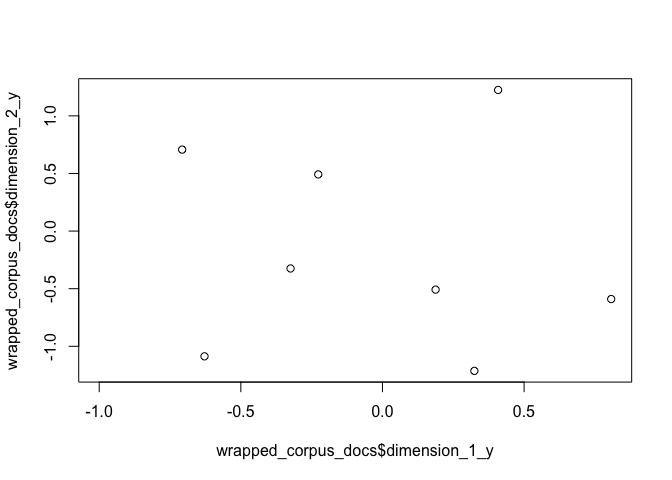
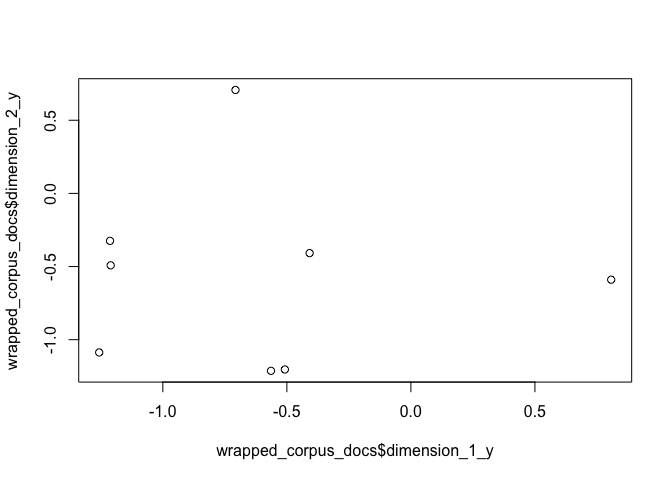
sklearn HDP & LDA added

diff --git a/README.md b/README.md
@@ -127,7 +127,7 @@ should manually delete it with `delete_mmcorpus`.
 
 ``` r
 (corpus_mm <- serialize_mmcorpus(corpus_bow, auto_delete = FALSE))
-#> ℹ Path: /var/folders/n9/ys9t1h091jq80g4hww24v8g0n7v578/T//RtmprgOYUV/file2bd36f4ffb8f.mm 
+#> ℹ Path: /var/folders/n9/ys9t1h091jq80g4hww24v8g0n7v578/T//RtmprgOYUV/file2bd37ec89b4f.mm 
 #>  ✔ Temp file
 #>  ✖ Delete after use
 ```
@@ -161,7 +161,7 @@ Note that we use the transformed corpus.
 lsi <- model_lsi(corpus_transformed, id2word = dictionary)
 #> ⚠ Low number of topics
 lsi$print_topics()
-#> [(0, '0.703*"trees" + 0.538*"graph" + 0.402*"minors" + 0.187*"survey" + 0.061*"system" + 0.060*"time" + 0.060*"response" + 0.058*"user" + 0.049*"computer" + 0.035*"interface"'), (1, '-0.460*"system" + -0.373*"user" + -0.332*"eps" + -0.328*"interface" + -0.320*"response" + -0.320*"time" + -0.293*"computer" + -0.280*"human" + -0.171*"survey" + 0.161*"trees"')]
+#> [(0, '0.703*"trees" + 0.538*"graph" + 0.402*"minors" + 0.187*"survey" + 0.061*"system" + 0.060*"response" + 0.060*"time" + 0.058*"user" + 0.049*"computer" + 0.035*"interface"'), (1, '0.460*"system" + 0.373*"user" + 0.332*"eps" + 0.328*"interface" + 0.320*"time" + 0.320*"response" + 0.293*"computer" + 0.280*"human" + 0.171*"survey" + -0.161*"trees"')]
 ```
 
 We can then wrap the model around the corpus to extract further
@@ -174,15 +174,15 @@ wrapped_corpus <- wrap(lsi, corpus_transformed)
 #> # A tibble: 9 x 4
 #>   dimension_1_x dimension_1_y dimension_2_x dimension_2_y
 #>           <dbl>         <dbl>         <dbl>         <dbl>
-#> 1             0        0.0660             1       -0.520 
-#> 2             0        0.197              1       -0.761 
-#> 3             0        0.0899             1       -0.724 
-#> 4             0        0.0759             1       -0.632 
-#> 5             0        0.102              1       -0.574 
-#> 6             0        0.703              1        0.161 
-#> 7             0        0.877              1        0.168 
-#> 8             0        0.910              1        0.141 
-#> 9             0        0.617              1       -0.0539
+#> 1             0        0.0660             1        0.520 
+#> 2             0        0.197              1        0.761 
+#> 3             0        0.0899             1        0.724 
+#> 4             0        0.0759             1        0.632 
+#> 5             0        0.102              1        0.574 
+#> 6             0        0.703              1       -0.161 
+#> 7             0        0.877              1       -0.168 
+#> 8             0        0.910              1       -0.141 
+#> 9             0        0.617              1        0.0539
 plot(wrapped_corpus_docs$dimension_1_y, wrapped_corpus_docs$dimension_2_y)
 ```
 
@@ -223,42 +223,42 @@ hdp <- model_hdp(corpus_mm, id2word = dictionary)
 reticulate::py_to_r(hdp$show_topic(topic_id = 1L, topn = 5L))
 #> [[1]]
 #> [[1]][[1]]
-#> [1] "eps"
+#> [1] "survey"
 #> 
 #> [[1]][[2]]
-#> [1] 0.4956268
+#> [1] 0.2299116
 #> 
 #> 
 #> [[2]]
 #> [[2]][[1]]
-#> [1] "computer"
+#> [1] "minors"
 #> 
 #> [[2]][[2]]
-#> [1] 0.1172552
+#> [1] 0.2039398
 #> 
 #> 
 #> [[3]]
 #> [[3]][[1]]
-#> [1] "survey"
+#> [1] "interface"
 #> 
 #> [[3]][[2]]
-#> [1] 0.09072642
+#> [1] 0.1803729
 #> 
 #> 
 #> [[4]]
 #> [[4]][[1]]
-#> [1] "system"
+#> [1] "computer"
 #> 
 #> [[4]][[2]]
-#> [1] 0.08612828
+#> [1] 0.07612692
 #> 
 #> 
 #> [[5]]
 #> [[5]][[1]]
-#> [1] "graph"
+#> [1] "time"
 #> 
 #> [[5]][[2]]
-#> [1] 0.06871661
+#> [1] 0.069968
 ```
 
 ### Log Entropy
@@ -313,7 +313,10 @@ data("authors", package = "gensimr")
 
 auth2doc <- auth2doc(authors, name, document)
 
+# create temp to hold serialized data
 temp <- tempfile("serialized")
+
+# build model
 atmodel <- model_at(
   corpus_mm, 
   id2word = dictionary, 
@@ -322,6 +325,8 @@ atmodel <- model_at(
   serialized = TRUE,
   serialization_path = temp
 )
+
+# delete temp
 unlink(temp, recursive = TRUE)
 ```
 
@@ -329,16 +334,16 @@ Then extract the topics for each author.
 
 ``` r
 atmodel$get_author_topics("jack") # native for single author 
-#> [(0, 0.2243756488094798), (1, 0.7756243511905202)]
+#> [(0, 0.19906505032758703), (1, 0.800934949672413)]
 
 # apply to all authors
 get_author_topics(atmodel)
 #> # A tibble: 3 x 5
 #>   authors dimension_1_x dimension_1_y dimension_2_x dimension_2_y
 #>   <chr>           <dbl>         <dbl>         <dbl>         <dbl>
-#> 1 jack                0         0.224             1         0.776
-#> 2 jane                0         0.159             1         0.841
-#> 3 john                0         0.137             1         0.863
+#> 1 jack                0         0.199             1         0.801
+#> 2 jane                0         0.538             1         0.462
+#> 3 john                0         0.264             1         0.736
 ```
 
 ## External Data & Models
@@ -494,14 +499,14 @@ delete_mmcorpus(corpus_mm)
 
 Scikitlearn API.
 
-### Author-topic\_id
+### Author-topic Model
 
 Author-topic model.
 
 ``` r
 temp <- tempfile("serialized")
 atmodel <- sklearn_at(
-  dictionary, 
+  id2word = dictionary, 
   author2doc = auth2doc, 
   num_topics = 2L, 
   passes = 100L,
@@ -511,4 +516,31 @@ atmodel <- sklearn_at(
 unlink(temp, recursive = TRUE)
 
 atmodel$fit(corpus_bow)$transform("jack")
+#> [[0.91516125 0.08483876]]
+```
+
+### Doc2vec
+
+``` r
+d2v <- sklearn_doc2vec(min_count = 1, size = 5)
+vectors <- d2v$fit_transform(docs)
+```
+
+### Hierarchical Dirichlet Process
+
+``` r
+hdp <- sklearn_hdp(id2word = dictionary)
+vectors <- hdp$fit_transform(corpus_bow)
+```
+
+## Latent Dirichlet Allocation
+
+``` r
+lda <- sklearn_lda(
+  id2word = dictionary, 
+  num_topics = 2, 
+  iterations = 20, 
+  random_state = 1
+)
+vectors <- hdp$fit_transform(corpus_bow)
 ```
